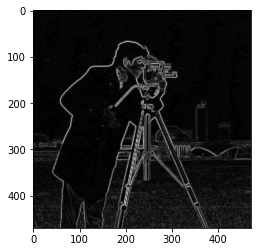
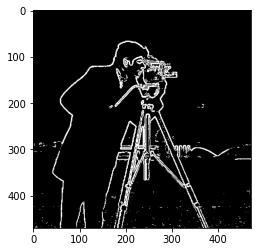
Various improvements

diff --git a/README.md b/README.md
@@ -1,8 +1,10 @@
-# BCIP
-Basic Convolution Image Processing
+# SobelFilter
 
 By Ilyas MAKROUM
 
+[Sobel fitler with C](sobelFitler.c)
+
+[Sobel fitler with Python](sobelFitler.ipynb)
 
 #### Input Image
 
